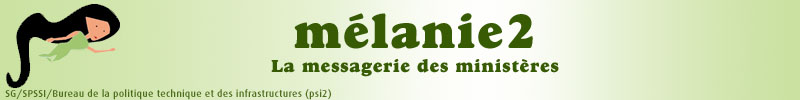
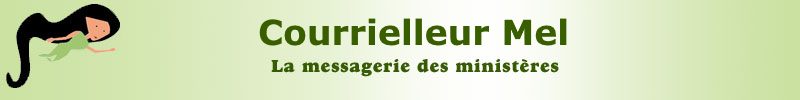
8.6.5

Changed region(s): [[0.3125, 0.12, 0.7188, 0.51], [0.0, 0.9, 0.4375, 0.99]]

diff --git a/oldversions.html b/oldversions.html
@@ -8,7 +8,7 @@
 
       <table class="doccm2">
       <tr><td>
-      <img class="bandeau" alt="Courrielleur Mélanie2" src="images/bandeau.png"/>
+      <img class="bandeau" alt="Courrielleur Mélanie2" src="images/bandeau2.png"/>
       </td></tr>
 
       <tr><td class="tbl-esp"></td></tr>
@@ -22,8 +22,87 @@
           <td>
             <ul class="rubriquep-cour">
             
-                <li><p>Courrielleur Mél - version 8.6.0 (septemnbre 2021)</p>
+                <li><p>Courrielleur Mél - version 8.6.4 (Juin 2022)</p>
+                    <ul class="rubrique1-cour">
+                    <li><a id="tele-win"
+                            title="Télécharger le Courrielleur Mél version 8.6.4 pour Windows 10, 10 64 bits"
+                            download="CourrielleurMel_8.6.4.win64.installer.exe"
+                            href="./fichiers/CourrielleurMel_8.6.4.win64.installer.exe"/>Télécharger la version windows (64 bits)</li>
+                    <br>
+                    <li><a id="tele-win"
+                            title="Télécharger le Courrielleur Mél version 8.6.4 pour Windows 10, 10 32 bits"
+                            download="CourrielleurMel_8.6.4.win32.installer.exe"
+                            href="./fichiers/CourrielleurMel_8.6.4.win32.installer.exe"/>Télécharger la version windows (32 bits)</li>
+                    <br>
+                    <li><a id="tele-linux64"
+                            title="Télécharger le Courrielleur Mél version 8.6.4 pour Linux 64 bits"
+                            download="CourrielleurMel_8.6.4.linux-x86_64.tar.bz2"
+                            href="./fichiers/CourrielleurMel_8.6.4.linux-x86_64.tar.bz2"/>Télécharger la version linux (64 bits)</li>
+                    <br>
+                    </ul>
+                </li>
+            
+                <li><p>Courrielleur Mél - version 8.6.3 (Février 2022)</p>
+                    <ul class="rubrique1-cour">
+                    <li><a id="tele-win"
+                            title="Télécharger le Courrielleur Mél version 8.6.3 pour Windows 10, 10 64 bits"
+                            download="CourrielleurMel_8.6.3.win64.installer.exe"
+                            href="./fichiers/CourrielleurMel_8.6.3.win64.installer.exe"/>Télécharger la version windows (64 bits)</li>
+                    <br>
+                    <li><a id="tele-win"
+                            title="Télécharger le Courrielleur Mél version 8.6.3 pour Windows 10, 10 32 bits"
+                            download="CourrielleurMel_8.6.3.win32.installer.exe"
+                            href="./fichiers/CourrielleurMel_8.6.3.win32.installer.exe"/>Télécharger la version windows (32 bits)</li>
+                    <br>
+                    <li><a id="tele-linux64"
+                            title="Télécharger le Courrielleur Mél version 8.6.3 pour Linux 64 bits"
+                            download="CourrielleurMel_8.6.3.linux-x86_64.tar.bz2"
+                            href="./fichiers/CourrielleurMel_8.6.3.linux-x86_64.tar.bz2"/>Télécharger la version linux (64 bits)</li>
+                    <br>
+                    </ul>
+                </li>
                 
+                <li><p>Courrielleur Mél - version 8.6.2 (Décembre 2021)</p>
+                    <ul class="rubrique1-cour">
+                    <li><a id="tele-win"
+                            title="Télécharger le Courrielleur Mél version 8.6.2 pour Windows 10, 10 64 bits"
+                            download="CourrielleurMel_8.6.2.win64.installer.exe"
+                            href="./fichiers/CourrielleurMel_8.6.2.win64.installer.exe"/>Télécharger la version windows (64 bits)</li>
+                    <br>
+                    <li><a id="tele-win"
+                            title="Télécharger le Courrielleur Mél version 8.6.2 pour Windows 10, 10 32 bits"
+                            download="CourrielleurMel_8.6.2.win32.installer.exe"
+                            href="./fichiers/CourrielleurMel_8.6.2.win32.installer.exe"/>Télécharger la version windows (32 bits)</li>
+                    <br>
+                    <li><a id="tele-linux64"
+                            title="Télécharger le Courrielleur Mél version 8.6.2 pour Linux 64 bits"
+                            download="CourrielleurMel_8.6.2.linux-x86_64.tar.bz2"
+                            href="./fichiers/CourrielleurMel_8.6.2.linux-x86_64.tar.bz2"/>Télécharger la version linux (64 bits)</li>
+                    <br>
+                    </ul>
+                </li>
+                
+                <li><p>Courrielleur Mél - version 8.6.1 (Octobre 2021)</p>
+                    <ul class="rubrique1-cour">
+                    <li><a id="tele-win"
+                            title="Télécharger le Courrielleur Mél version 8.6.1 pour Windows 10, 10 64 bits"
+                            download="CourrielleurMel_8.6.1.win64.installer.exe"
+                            href="./fichiers/CourrielleurMel_8.6.1.win64.installer.exe"/>Télécharger la version windows (64 bits)</li>
+                    <br>
+                    <li><a id="tele-win"
+                            title="Télécharger le Courrielleur Mél version 8.6.1 pour Windows 10, 10 32 bits"
+                            download="CourrielleurMel_8.6.1.win32.installer.exe"
+                            href="./fichiers/CourrielleurMel_8.6.1.win32.installer.exe"/>Télécharger la version windows (32 bits)</li>
+                    <br>
+                    <li><a id="tele-linux64"
+                            title="Télécharger le Courrielleur Mél version 8.6.1 pour Linux 64 bits"
+                            download="CourrielleurMel_8.6.1.linux-x86_64.tar.bz2"
+                            href="./fichiers/CourrielleurMel_8.6.1.linux-x86_64.tar.bz2"/>Télécharger la version linux (64 bits)</li>
+                    <br>
+                    </ul>
+                </li>
+            
+                <li><p>Courrielleur Mél - version 8.6.0 (septemnbre 2021)</p>
                     <ul class="rubrique1-cour">
                     <li><a id="tele-win"
                             title="Télécharger le Courrielleur Mél version 8.6.0 pour Windows 10, 10 64 bits"
@@ -44,7 +123,6 @@
                 </li>
             
                 <li><p>Courrielleur Mél - version 8.5.2 (avril 2021)</p>
-                
                     <ul class="rubrique1-cour">
                     <li><a id="tele-win"
                             title="Télécharger le Courrielleur Mél version 8.5.2 pour Windows 10, 10 64 bits"

diff --git a/changelog.html b/changelog.html
@@ -8,16 +8,80 @@
 
       <table class="doccm2">
       <tr><td>
-      <img class="bandeau" alt="Courrielleur Mélanie2" src="images/bandeau.png"/>
+      <img class="bandeau" alt="Courrielleur Mélanie2" src="images/bandeau2.png"/>
       </td></tr>
 
       <tr><td class="tbl-esp"></td></tr>
 
-      <tr><td class="tbl-titre">Courrielleur - Journal des changements</td></tr>
+      <tr><td class="tbl-titre">Journal des changements</td></tr>
 
       <tr><td>
 
       <table id="tbl-contenu" border="0" cellpadding="0" cellspacing="0">
+        <tr>
+          <td>
+            <ul class="rubriquep-cour">
+                <li><p>Courrielleur Mél - version 8.6.5 (Juillet 2022)</p>
+                    <b>6847 & 6796</b> - Corrections d'affichage et de labels du bandeau bleu des mails d'invitation à des événements.<br/>
+                    <b>6794</b> - Correction de l'ordre des noms de Ministères.<br/>
+                    <b>5399</b> - Ajustements des certification ANTS.<br/>
+                    <b>6813</b> - Ajout de certificats MASA.
+                </li>
+            </ul>
+          </td>
+        </tr>
+        <tr>
+          <td>
+            <ul class="rubriquep-cour">
+                <li><p>Courrielleur Mél - version 8.6.4 (Juin 2022)</p>
+                    <b>6794</b> - Mise à jour des noms de Ministères.<br/>
+                    <b>6487</b> - Ajout d'un avertissement lorsque l'utilisateur essaye de sauvegarder un brouillon avec une PJ trop grande.<br/>
+                    <b>6502</b> - Ajout de contrôles et corrections automatiques sur les noms indiqués à la création de dossiers.<br/>
+                    <b>6689</b> - Amélioration des performances du Courrielleur par réinitialisation automatique du panneau "Recherche d'évènements".<br/>
+                    <b>6372</b> - Diminution du nombre de notifications envoyées sur modifications mineures d'événements.<br/>
+                    <b>6484 & 6207</b> - Ajout de choix manuels des Agendas lors de réponses aux événements.<br/>
+                    <b>6723</b> - Prise en compte de la Sequence ICS pour les messages de notifications de création d'événement.<br/>
+                    <b>6746</b> - Ajout de contrôles pour empêcher la disparition des boites et dossiers du le panneau de gauche.<br/>
+                    <b>6700</b> - Correction d'un problème qui empêchait l'envoi différé et l'enregistrement des dates d'envoi pour certaines BALP.<br/>
+                    <b>6428</b> - Optimisation du temps de chargement des agenda au lancement du Courrielleur.<br/>
+                    <b>6466</b> - Ajout d'un avertissement lorsque l'utilisateur essaye d'envoyer un message en différé avec une PJ trop grande.<br/>
+                    <b>5399</b> - Ajout de la nouvelle autorité de certification ANTS.<br/>
+                    <b>6552</b> - Ajustements de la taille et de la position de la fenêtre de choix d'Agenda.<br/>
+                    <b>6564</b> - Ajout de la mention "a provisoirement accepté votre invitation" dans les réponses envoyées par mail aux organisateurs d'événements.<br/>
+                    <b>6461</b> - Correction d'un problème qui empêchait les pièces jointes d'apparaitre correctement lorsqu'il y en avait plus d'une dans un événement.
+                </li>
+            </ul>
+          </td>
+        </tr>
+        <tr>
+          <td>
+            <ul class="rubriquep-cour">
+                <li><p>Courrielleur Mél - version 8.6.3 (Février 2022)</p>
+                    <b>6416:</b> Suppression du contrôle de casse lors de la vérification de mots clefs pendant la rédaction d'un mail.<br/>
+                    <b>6272:</b> Le Courrielleur demandera dans quel agenda écrire les événements lors de leur acceptation de manière plus régulière.<br/>
+                    <b>6219:</b> Correction d'un problème qui empêchait l'impression complète d'événements ou de tâches ayant une description trop longue.<br/>
+                    <b>6313:</b> Correction d'un problème qui empêchait certains formats d'invitations externes d'être correctement ouverts.<br/>
+                    <b>6367:</b> Correction mineurs d'erreurs apparaissants dans les logs au lancement du Courrielleur.<br/>
+                    <b>6282:</b> Implémentation du droit à la déconnexion pour les services concernés.<br/>
+                    <b>6300:</b> Ajout d'une synchronisation automatique de l'agenda lorsqu'il est coché sur l'interface.<br/>
+                    <b>4521 & 6020:</b> Nettoyage automatique du cache au lancement du Courrielleur pour en accélérer le lancement.<br/>
+                    <b>6286:</b> Ajout du style "barré" pour les impressions d'événements annulés.<br/>
+                    <b>6444:</b> Mise à jour des liens "Notes de versions" et "Nouveautés"<br/>
+                    <b>6274:</b> Correction de sécurité.
+                </li>
+            </ul>
+          </td>
+        </tr>
+        <tr>
+          <td>
+            <ul class="rubriquep-cour">
+                <li><p>Courrielleur Mél - version 8.6.2 (décembre 2021)</p>
+                    <b>6298:</b> Correction d'une regression qui empêchait la date d'envoi d'être correctement affichée sur les profiles avec un fuseau horaire négatif.<br/>
+                    <b>6248:</b> Affichage par défaut du lieu sur les événements de l'agenda lorsqu'il est renseigné.
+                </li>
+            </ul>
+          </td>
+        </tr>
         <tr>
           <td>
             <ul class="rubriquep-cour">

diff --git a/accueil.html b/accueil.html
@@ -10,7 +10,7 @@
  
       <tr><td class="tbl-esp"></td></tr>
 
-      <tr><td class="tbl-titre">Courrielleur Mél version 8.6.1</td></tr>
+      <tr><td class="tbl-titre">Courrielleur Mél version 8.6.5</td></tr>
 
       <tr><td>
 
@@ -18,8 +18,8 @@
 
           <tr>
             <td id="tdimg5">
-              <img id="img5-cour" width="800px" alt="Courrielleur Mél" src="./images/cmel_8.6.1.png"/>
-              <p class="tdimg-titre">Courrielleur Mél version 8.6.1</p>
+              <img id="img5-cour" width="800px" alt="Courrielleur Mél" src="./images/cmel_8.6.5.png"/>
+              <p class="tdimg-titre">Courrielleur Mél version 8.6.5</p>
               <p class="tdimg-footer">
               <a class="footer" id="lien-anciennes" href="./oldversions.html">Anciennes versions</a>
                 <b>&nbsp;|&nbsp;</b>
@@ -37,22 +37,22 @@
                 </tr>
                 <tr>
                   <td id="tele-load"><a id="tele-win"
-                                        title="Télécharger le Courrielleur Mél version 8.6.1 pour Windows 32 bits"
-                                        download="CourrielleurMel_8.6.1.win32.installer.exe"
-                                        href="./fichiers/CourrielleurMel_8.6.1.win32.installer.exe"/>Windows (32 bits)</td>
+                                        title="Télécharger le Courrielleur Mél version 8.6.5 pour Windows 32 bits"
+                                        download="CourrielleurMel_8.6.5.win32.installer.exe"
+                                        href="./fichiers/CourrielleurMel_8.6.5.win32.installer.exe"/>Windows (32 bits)</td>
                 </tr>
                 <tr>
                   <td id="tele-load"><a id="tele-win"
-                                        title="Télécharger le Courrielleur Mél version 8.6.1 pour Windows 64 bits"
-                                        download="CourrielleurMel_8.6.1.win64.installer.exe"
-                                        href="./fichiers/CourrielleurMel_8.6.1.win64.installer.exe"/>Windows (64 bits)</td>
+                                        title="Télécharger le Courrielleur Mél version 8.6.5 pour Windows 64 bits"
+                                        download="CourrielleurMel_8.6.5.win64.installer.exe"
+                                        href="./fichiers/CourrielleurMel_8.6.5.win64.installer.exe"/>Windows (64 bits)</td>
                 </tr>
                   <td id="tele-esp"></td>
                 <tr>
                   <td id="tele-load"><a id="tele-linux64"
-                                        title="Télécharger le Courrielleur Mél version 8.6.1 pour Linux 64 bits"
-                                        download="CourrielleurMel_8.6.1.linux-x86_64.tar.bz2"
-                                        href="./fichiers/CourrielleurMel_8.6.1.linux-x86_64.tar.bz2"/>Linux (64 bits)</td>
+                                        title="Télécharger le Courrielleur Mél version 8.6.5 pour Linux 64 bits"
+                                        download="CourrielleurMel_8.6.5.linux-x86_64.tar.bz2"
+                                        href="./fichiers/CourrielleurMel_8.6.5.linux-x86_64.tar.bz2"/>Linux (64 bits)</td>
                 </tr>
               </table>
             </td>
